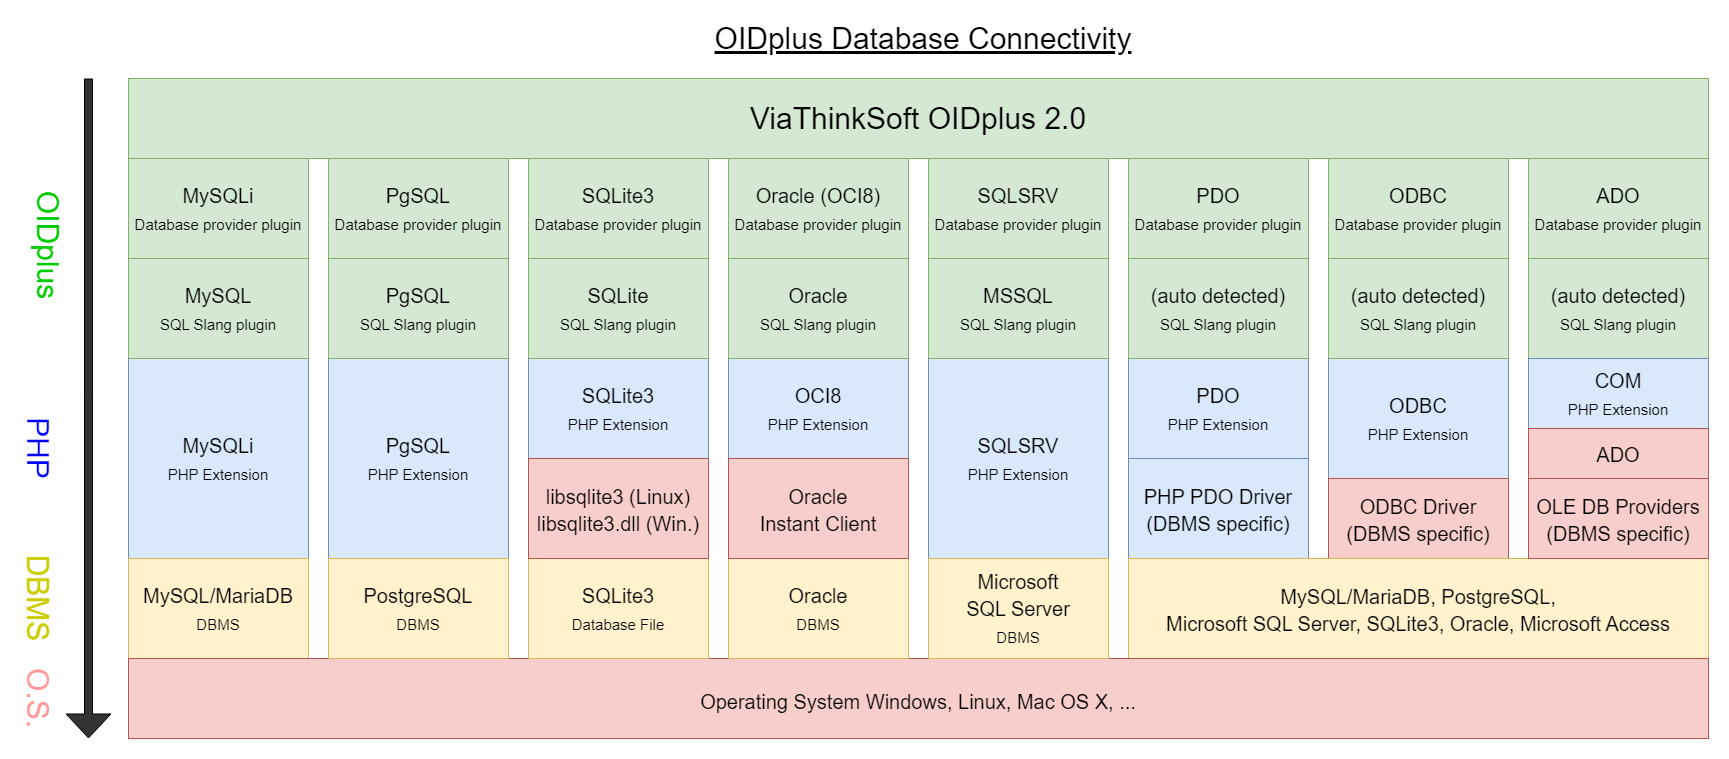
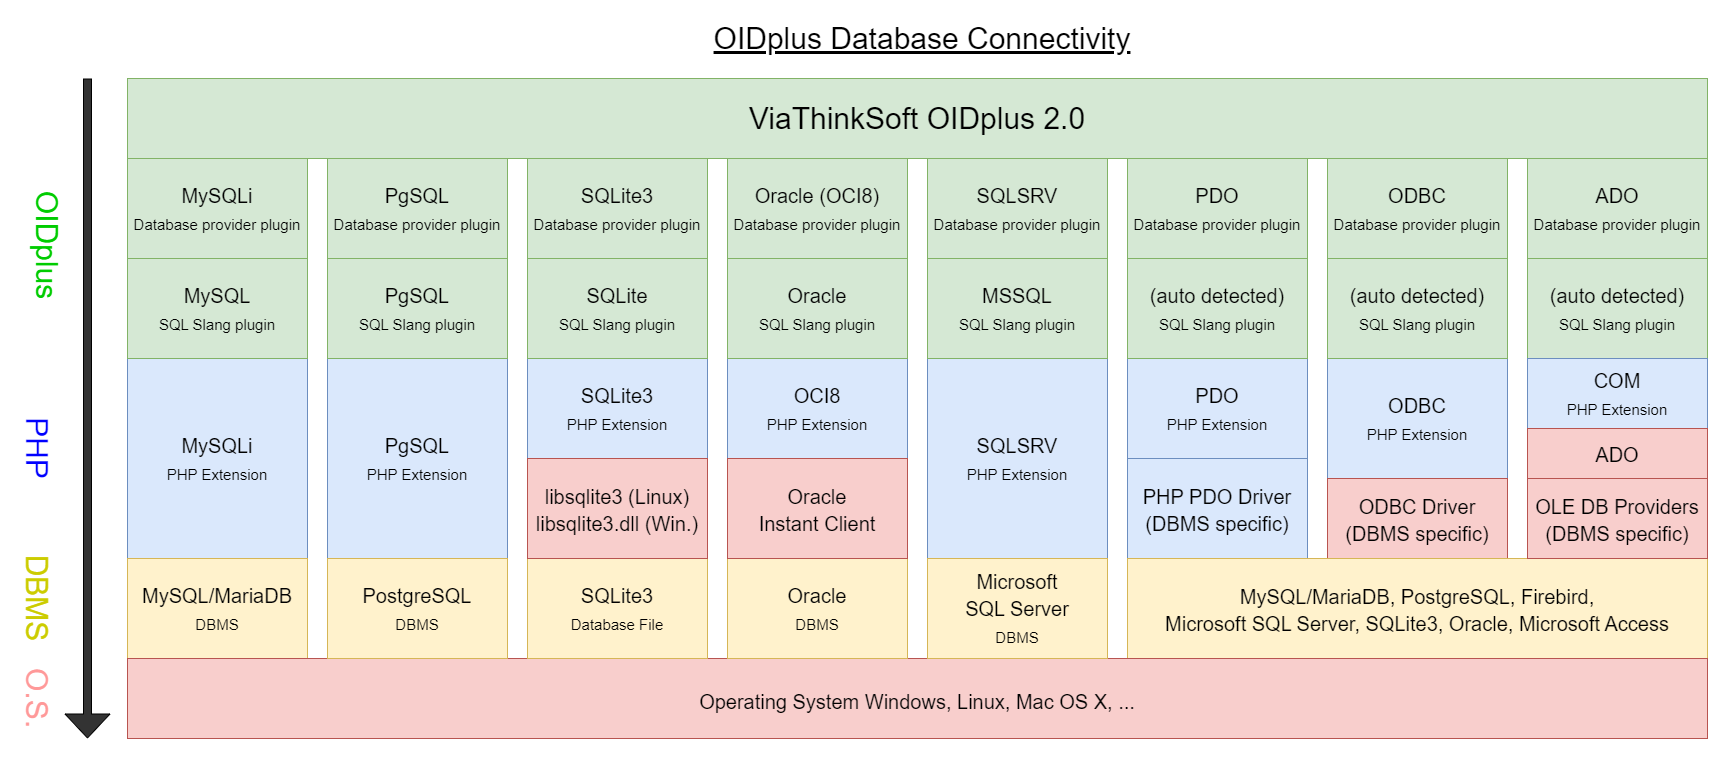
Added Firebird SQL slang (beta)
git-svn-id: https://svn.viathinksoft.com/svn/oidplus/trunk@1235 02e4d621-2042-4998-a0bc-9ccd24201011

diff --git a/plugins/viathinksoft/sqlSlang/firebird/OIDplusSqlSlangPluginFirebird.class.php b/plugins/viathinksoft/sqlSlang/firebird/OIDplusSqlSlangPluginFirebird.class.php
@@ -1,0 +1,136 @@
+<?php
+
+/*
+ * OIDplus 2.0
+ * Copyright 2019 - 2023 Daniel Marschall, ViaThinkSoft
+ *
+ * Licensed under the Apache License, Version 2.0 (the "License");
+ * you may not use this file except in compliance with the License.
+ * You may obtain a copy of the License at
+ *
+ *     http://www.apache.org/licenses/LICENSE-2.0
+ *
+ * Unless required by applicable law or agreed to in writing, software
+ * distributed under the License is distributed on an "AS IS" BASIS,
+ * WITHOUT WARRANTIES OR CONDITIONS OF ANY KIND, either express or implied.
+ * See the License for the specific language governing permissions and
+ * limitations under the License.
+ */
+
+namespace ViaThinkSoft\OIDplus;
+
+// phpcs:disable PSR1.Files.SideEffects
+\defined('INSIDE_OIDPLUS') or die;
+// phpcs:enable PSR1.Files.SideEffects
+
+class OIDplusSqlSlangPluginFirebird extends OIDplusSqlSlangPlugin {
+
+	/**
+	 * @return string
+	 */
+	public static function id(): string {
+		return 'firebird';
+	}
+
+	/**
+	 * @return string
+	 */
+	public function sqlDate(): string {
+		return 'current_timestamp';
+	}
+
+	/**
+	 * @param OIDplusDatabaseConnection $db
+	 * @return bool
+	 */
+	public function detect(OIDplusDatabaseConnection $db): bool {
+		try {
+			return $db->query('select * from rdb$character_sets;')->num_rows() > 0;
+		} catch (\Exception $e) {
+			return false;
+		}
+	}
+
+	/**
+	 * @param OIDplusDatabaseConnection $db
+	 * @return int
+	 * @throws OIDplusException
+	 */
+	public function insert_id(OIDplusDatabaseConnection $db): int {
+
+		// TODO: IMPLEMENT FOR FIREBIRD!
+		return 0;
+
+	}
+
+	/**
+	 * @param string $cont
+	 * @param string $table
+	 * @param string $prefix
+	 * @return string
+	 */
+	public function setupSetTablePrefix(string $cont, string $table, string $prefix): string {
+		$table = strtoupper($table);
+		$prefix = strtoupper($prefix);
+		return str_replace('"'.$table.'"', '"'.$prefix.$table.'"', $cont);
+	}
+
+	/**
+	 * @param string $database
+	 * @return string
+	 */
+	public function setupCreateDbIfNotExists(string $database): string {
+		// TODO! Implement
+		return "";
+	}
+
+	/**
+	 * @param string $database
+	 * @return string
+	 */
+	public function setupUseDatabase(string $database): string {
+		// TODO! Implement
+		return "";
+	}
+
+	/**
+	 * @param string $expr1
+	 * @param string $expr2
+	 * @return string
+	 */
+	public function isNullFunction(string $expr1, string $expr2): string {
+		return "COALESCE($expr1, $expr2)";
+	}
+
+	/**
+	 * @param string $sql
+	 * @return string
+	 */
+	public function filterQuery(string $sql): string {
+		// "select 1" is not valid. You need to add "from RDB$DATABASE"
+		if ((stripos($sql,'select') !== false) && (stripos($sql,'from') === false)) {
+			$sql .= ' from RDB$DATABASE';
+		}
+
+		//Value is a keyword and cannot be used as column name
+		$sql = str_ireplace('value', '"VALUE"', $sql);
+		$sql = str_ireplace('"VALUE"s', 'values', $sql);
+		return $sql;
+	}
+
+	/**
+	 * @param bool $bool
+	 * @return string
+	 */
+	public function getSQLBool(bool $bool): string {
+		return $bool ? '1' : '0';
+	}
+
+	/**
+	 * @param string $str
+	 * @return string
+	 */
+	public function escapeString(string $str): string {
+		return str_replace("'", "''", $str);
+	}
+}

diff --git a/includes/classes/OIDplusDatabaseConnection.class.php b/includes/classes/OIDplusDatabaseConnection.class.php
@@ -187,7 +187,7 @@ abstract class OIDplusDatabaseConnection extends OIDplusBaseClass {
 		$this->last_query = $sql;
 		$sql = str_replace('###', OIDplus::baseConfig()->getValue('TABLENAME_PREFIX', ''), $sql);
 
-		if ($this->slangDetectionDone) {
+		if ($this->slangDetectionDone || OIDplus::baseConfig()->exists('FORCE_DBMS_SLANG')) {
 			$slang = $this->getSlang();
 			if ($slang) {
 				$sql = $slang->filterQuery($sql);

diff --git a/plugins/viathinksoft/database/sqlsrv/OIDplusDatabaseConnectionSqlSrv.class.php b/plugins/viathinksoft/database/sqlsrv/OIDplusDatabaseConnectionSqlSrv.class.php
@@ -129,7 +129,7 @@ class OIDplusDatabaseConnectionSqlSrv extends OIDplusDatabaseConnection {
 		$version = $m[0].$m[1];
 
 		// e.g. php_sqlsrv_82_ts_x64.dll
-		return "php_sqlsrv_${version}_${threadsafety}_${architecture}.dll";
+		return "php_sqlsrv_{$version}_{$threadsafety}_{$architecture}.dll";
 	}
 
 	/**

diff --git a/README.md b/README.md
@@ -33,7 +33,8 @@ Download a TAR.GZ file here: https://www.viathinksoft.com/projects/oidplus
         SQLite3,
         Oracle,
         Microsoft SQL Server,
-        Microsoft Access
+        Microsoft Access,
+        Firebird
 - Independent of operating systems (tested with Windows, Linux and macOS X)
 
 ### Reporting a bug

diff --git a/doc/config_values.md b/doc/config_values.md
@@ -342,6 +342,7 @@ performance but also increases memory usage on large databases.
 
 Currently valid values:
 - `access`
+- `firebird`
 - `mssql`
 - `mysql`
 - `oracle`
